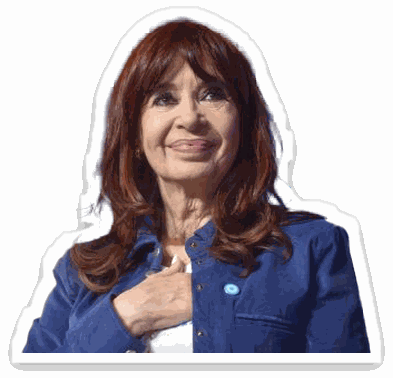
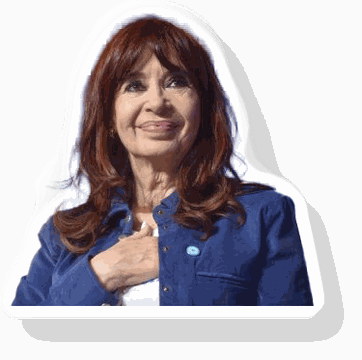
Figuras nuevas de Cristina y Milei, ubicadas según el ancho
Reemplaza los PNG por los recortes que ya vienen con el trazo hecho
(sólo se reescalan a 360px y se cuantizan). En desktop van a los
costados, centradas contra la mitad de la tabla; en celular pasan
adentro del encabezado, debajo de "Con Cristina" y "Con Milei".

diff --git a/src/screens/Final.jsx b/src/screens/Final.jsx
@@ -112,11 +112,11 @@ export default function Final({ estado, dispatch }) {
                 ¿Para cuánto alcanza el Progresar?
               </h2>
 
-              <div className="flex items-end justify-center gap-1 sm:gap-3">
+              <div className="flex items-center justify-center gap-3">
                 <img
                   src="/cfk.png"
                   alt="Cristina Fernández de Kirchner"
-                  className="w-14 sm:w-32 shrink-0 select-none pointer-events-none"
+                  className="hidden sm:block w-32 shrink-0 select-none pointer-events-none"
                 />
 
                 <table className="flex-1 min-w-0 border-collapse">
@@ -164,7 +164,7 @@ export default function Final({ estado, dispatch }) {
                 <img
                   src="/milei.png"
                   alt="Javier Milei"
-                  className="w-14 sm:w-32 shrink-0 select-none pointer-events-none"
+                  className="hidden sm:block w-32 shrink-0 select-none pointer-events-none"
                 />
               </div>
             </div>
